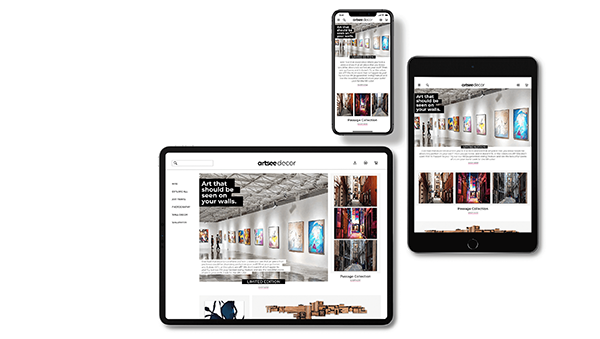
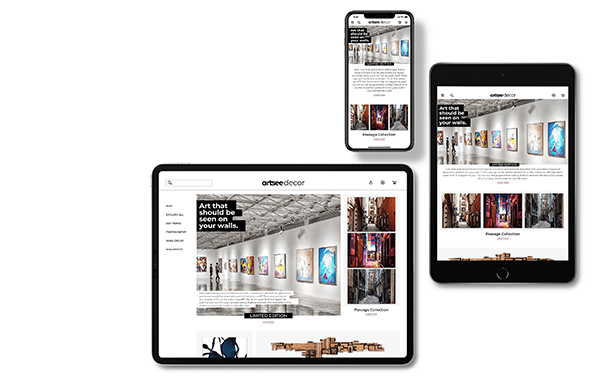
updated ad index imgs & hamburger

Changed region(s): [[0.24, 0.0295, 0.99, 0.9735]]

diff --git a/index.html b/index.html
@@ -72,12 +72,12 @@
                   <picture>
                     <source
                       srcset="
-                        ./img/1-home/1-imgs/1-artsee-decor-imgs/AD-artwork-wall-@1x.png
+                        ./img/1-home/1-imgs/1-artsee-decor-imgs/AR-artwork-wall-place@1.png
                       "
                       media="(max-width:767px)"
                     />
                     <img
-                      src="./img/1-home/1-imgs/1-artsee-decor-imgs/AD-artwork-wall-@2x.png"
+                      src="./img/1-home/1-imgs/1-artsee-decor-imgs/AR-artwork-wall-place@2.png"
                       alt="Artsee Decor (main image)"
                     />
                   </picture>

diff --git a/css/style.css b/css/style.css
@@ -92,7 +92,7 @@ h4 {
 .menu {
   background: url("../img/1-home/1-imgs/menu.svg") no-repeat;
   width: 26px;
-  height: 19px;
+  height: 18px;
   transition: 150ms ease-in-out;
   margin-top: 24px;
   float: right;
@@ -100,14 +100,14 @@ h4 {
 .menu:hover {
   background: url("../img/1-home/1-imgs/menu-hover.svg") no-repeat;
   width: 26px;
-  height: 23px;
+  height: 20px;
   transition: 150ms ease-in-out;
 }
 
 .menuX {
   background: url("../img/1-home/1-imgs/menuX.svg") no-repeat;
-  width: 22px;
-  height: 22px;
+  width: 20px;
+  height: 20px;
   transition: 150ms ease-in-out;
   margin-top: 24px;
   float: right;
